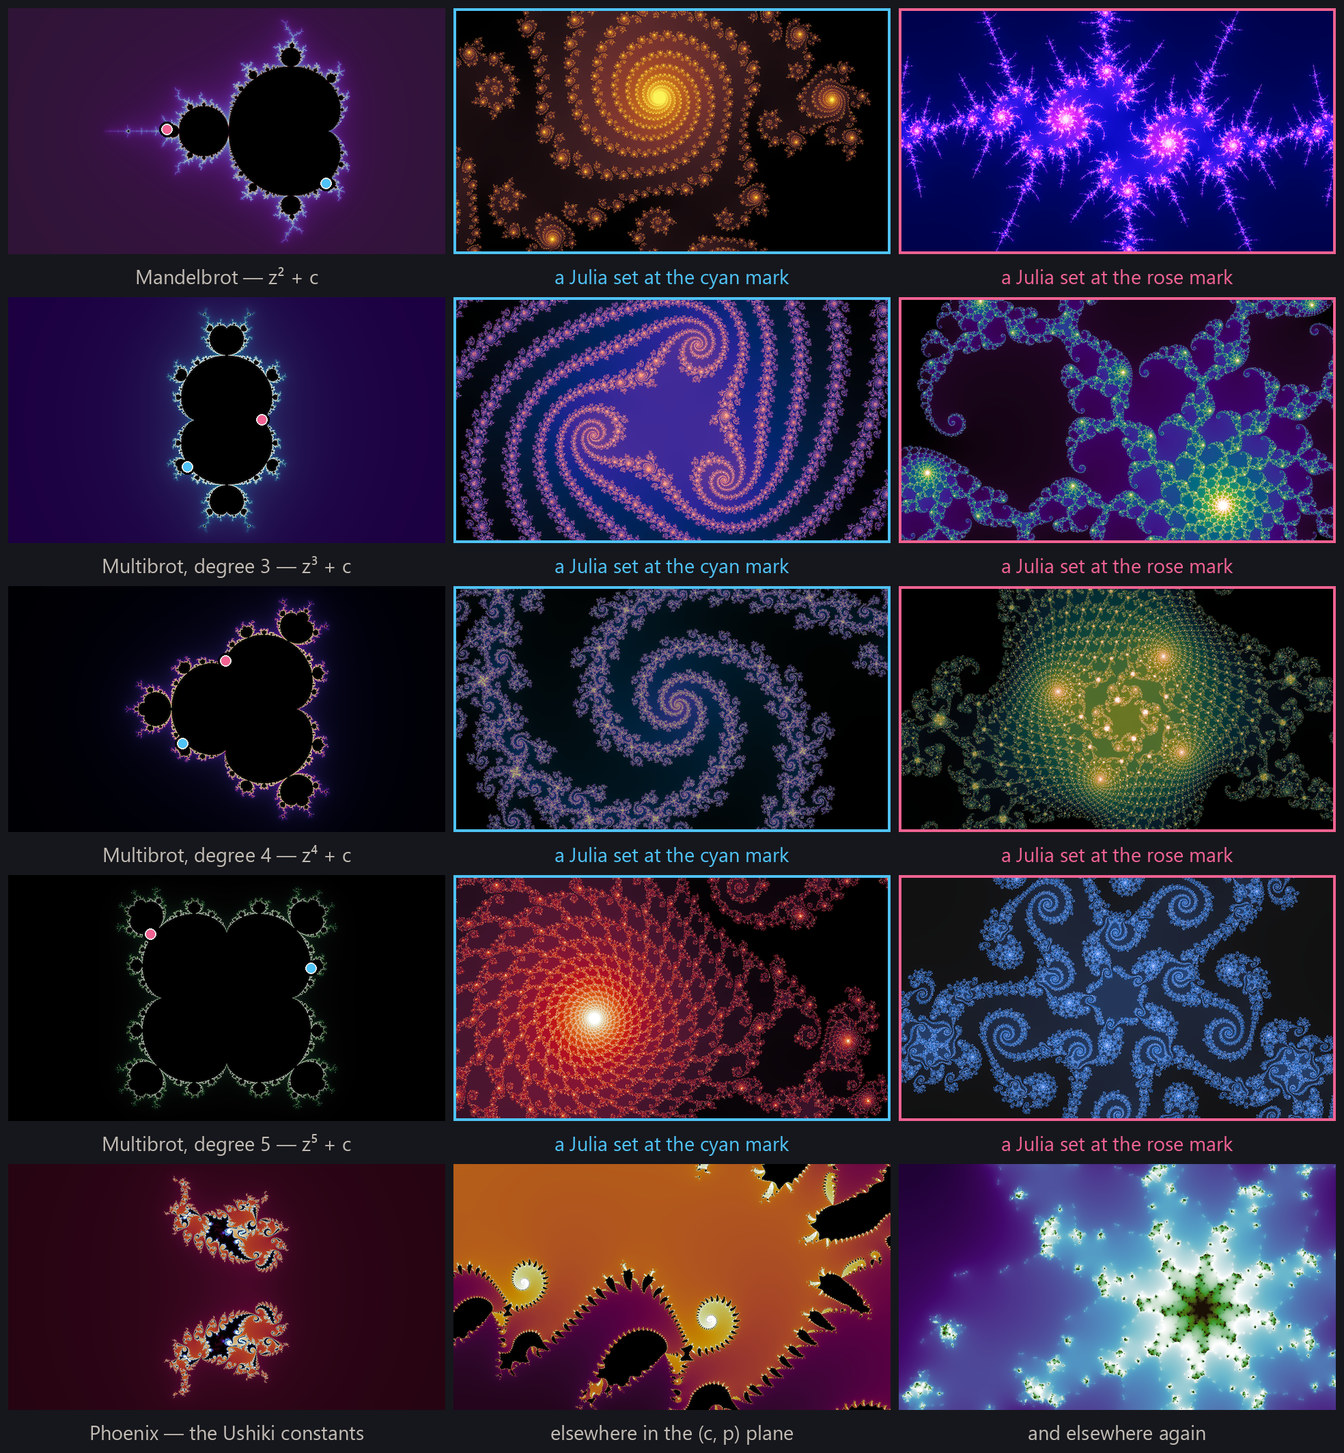
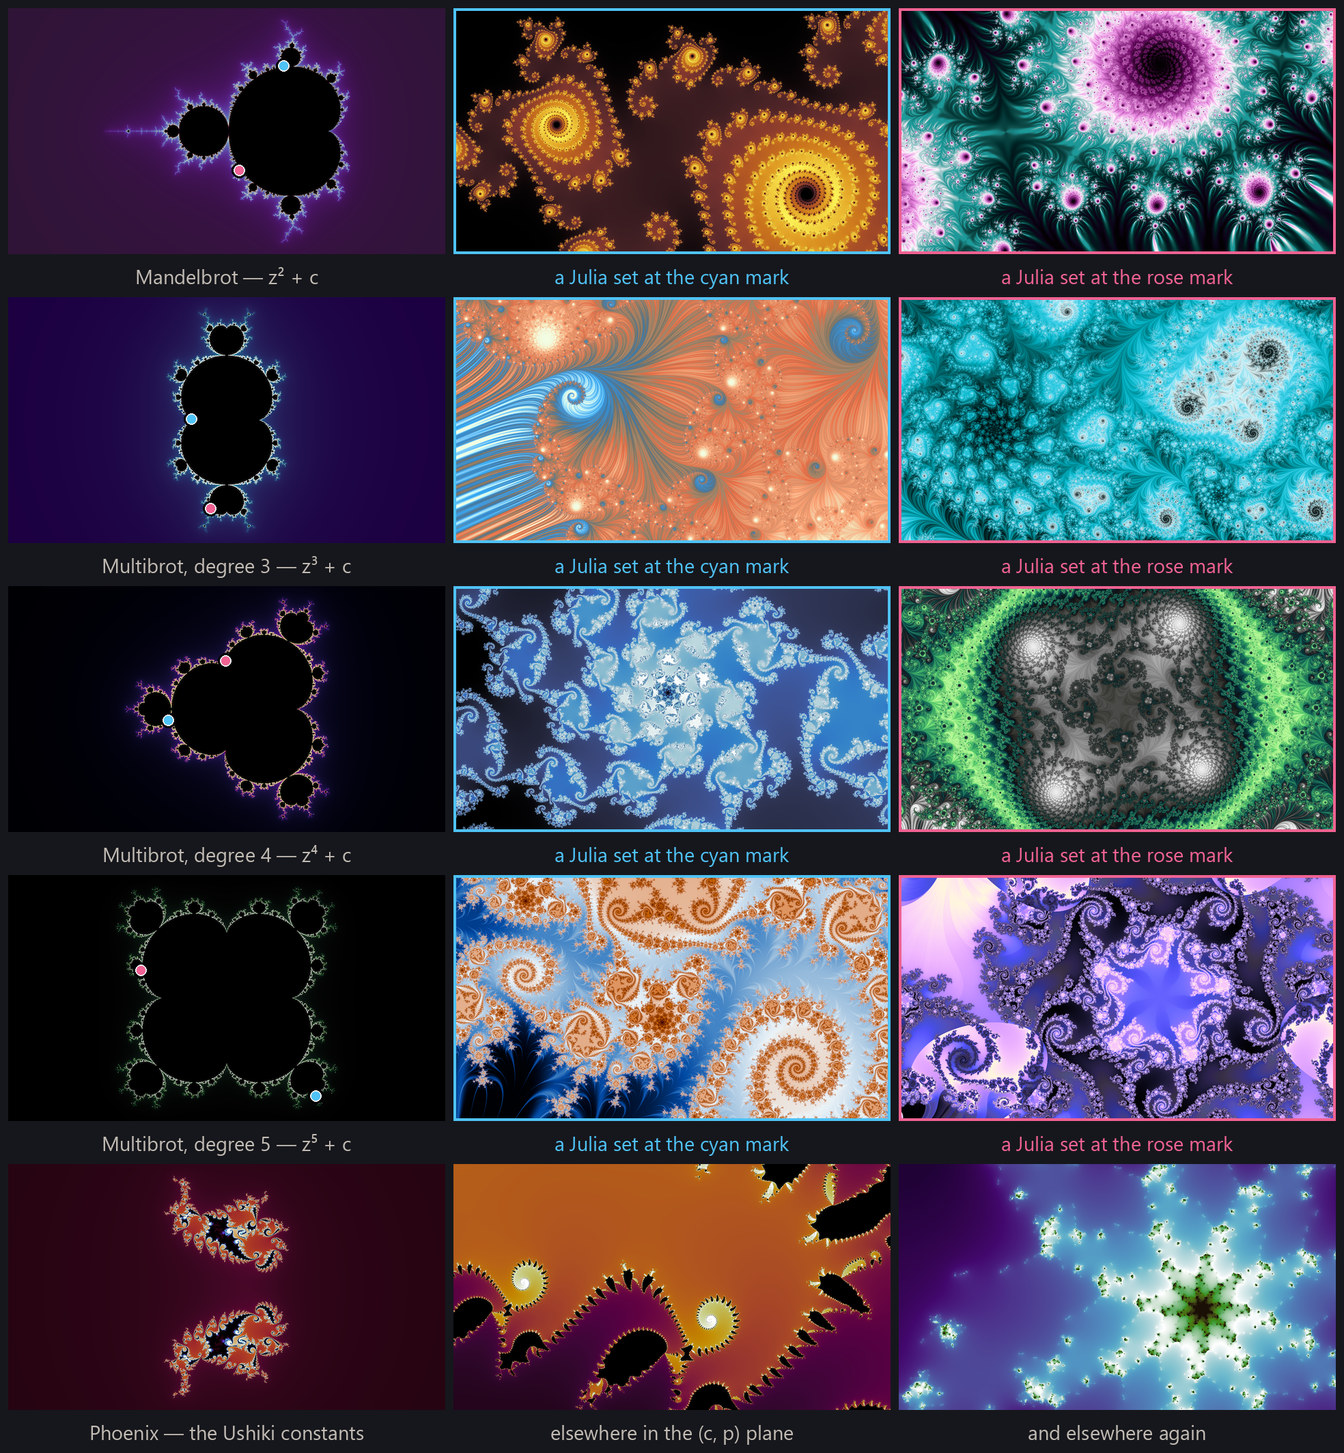
Rebuild three figures off Matt's pass, and fix one word
The pipeline figure runs top to bottom now — three stacked bands, each a
heading over its own row of pictures — and follows one location through all
three: found in neutral colours, colored four ways with the map the run kept
marked, then seated in a gallery. Its picks live on the registry row.

The four-point scale stops teaching that exceptional means spiral: rung 4 is a
rosette, a lace of ribbons and a field of beaded scrolls in three families, and
rung 1's third panel is now a location whose detail is finer than its pixels,
which is what junk-because-formless actually looks like.

Every family the project draws takes its eight Julia panels from gallery seats
rather than the label store, so a reader meets the work in its own colours; the
phoenix row is unchanged, having no plane to mark.

The hook's caption is placed verbatim, and render-field-anatomy's reuse_reason
comes out with the collision the pipeline re-pick dropped.

Claude-Session: https://claude.ai/code/session_01LVtW6yVuxZc7cAy18okcpG

diff --git a/article/overview.html b/article/overview.html
@@ -49,8 +49,8 @@
 <main>
   <section class="prose">
       <figure class="figure" data-figure="overview-gallery-hook">
-        <a class="figure-open" href="../explorer/index.html?v=2&amp;f=multibrot4&amp;x=0.3190049359670787&amp;y=0.7493803355819899&amp;w=0.00000030536169435018664&amp;p=pink&amp;mirror=1" title="open in fractal explorer" aria-label="open in fractal explorer"><img src="../assets/images/figures/overview-gallery-hook.jpg" width="1314" height="628" alt="Six finished wallpapers: three drawn in the smooth rendering along the top row, three in stranger rendering modes below."><span class="figure-open-mark" aria-hidden="true">↗</span></a>
-        <figcaption>Wallpapers found by this project's fractal search. Nothing about them is hand-made: the search finds a good location on its own, a rendering mode draws it, a palette colors it, and a trained judge decides it is worth keeping. The top row is the classic smooth rendering; the bottom row is three of the stranger modes.</figcaption>
+        <a class="figure-open" href="../explorer/index.html?v=2&amp;f=multibrot4&amp;x=0.3190049359670787&amp;y=0.7493803355819899&amp;w=0.00000030536169435018664&amp;p=pink&amp;mirror=1" title="open in fractal explorer" aria-label="open in fractal explorer"><img src="../assets/images/figures/overview-gallery-hook.jpg" width="1314" height="628" alt="Six finished wallpapers: three drawn in the smooth rendering along the top row, three in alternative rendering styles below."><span class="figure-open-mark" aria-hidden="true">↗</span></a>
+        <figcaption>Wallpapers found by this project's fractal search. The search finds a good location on its own, tries many different color palettes and ways to render it, and a trained judge decides it is worth keeping. The top row is the classic smooth rendering; the bottom row is three of the alternative rendering styles.</figcaption>
       </figure>
 
     <p>For many years my desktop background has cycled through a collection of
@@ -96,8 +96,8 @@
     Each question is one part of a <i>pipeline</i>, and each part feeds the next:</p>
 
       <figure class="figure" data-figure="overview-pipeline">
-        <a class="figure-open" href="../explorer/index.html?v=2&amp;f=multibrot4&amp;x=0.31215622070747834&amp;y=0.7310275499716895&amp;w=0.000009171415720687774&amp;p=dessert-union-25" title="open in fractal explorer" aria-label="open in fractal explorer"><img src="../assets/images/figures/overview-pipeline.jpg" width="1344" height="464" alt="The three parts of the pipeline side by side, each above the parts it is made of: a walk frame of one multibrot location, the same frame colored through a palette, and four candidate colorings of it with the kept one framed."><span class="figure-open-mark" aria-hidden="true">↗</span></a>
-        <figcaption>The pipeline end to end, on one location. A guided walk finds the frame and the location judge scores it; that same frame is then drawn many ways — a rendering mode and a palette to each attempt, with the tones balanced — and the render judge scores what comes back; and a gallery is chosen out of the pool those attempts fill. Every picture here is that same multibrot frame, and the framed panel is the coloring the run kept.</figcaption>
+        <a class="figure-open" href="../explorer/index.html?v=2&amp;f=multibrot4&amp;x=0.3407452442528424&amp;y=0.931615414985041&amp;w=0.00000006344276705989817&amp;p=twilight_shifted" title="open in fractal explorer" aria-label="open in fractal explorer"><img src="../assets/images/figures/overview-pipeline.jpg" width="1344" height="1017" alt="The three parts of the pipeline stacked down the page: three locations a walk found, drawn in neutral colors; one of them colored through four different palettes with the kept one marked; and three finished wallpapers of the gallery a solve chose."><span class="figure-open-mark" aria-hidden="true">↗</span></a>
+        <figcaption>The pipeline end to end. A guided walk finds locations worth drawing and the location judge scores them; one of those frames is then drawn many ways — a rendering mode and a palette to each attempt, with the tones balanced — and the render judge scores what comes back; and a gallery is chosen out of the pool those attempts fill. The first location of the top band is followed down the sheet: colored four ways in the middle band, where the marked panel is the coloring the run kept, and seated in the gallery at the foot.</figcaption>
       </figure>
 
     <p><a href="finding-good-locations.html">Finding good locations</a> — a guided walk

diff --git a/article/finding-good-locations.html b/article/finding-good-locations.html
@@ -80,7 +80,7 @@
     of the territory worth exploring. The six pictures below run from a frame that is mostly
     empty to one carrying detail at every scale. They are finished wallpapers rather than
     bare geometry, because that is how the question actually gets asked, and every one of
-    them was rated as good as this project's scale goes — which of them is too sparse, too
+    them was rated as good as this project's scale goes — which of them are too sparse, too
     busy, or just right is still largely personal preference.</p>
 
       <figure class="figure" data-figure="locations-style-spectrum">

diff --git a/builder/locations.py b/builder/locations.py
@@ -1125,15 +1125,30 @@ SPECTRUM_DENSITY = (0.032, 0.067, 0.087, 0.111, 0.152, 0.194)
 
 #: Three examples per rung of the four-point scale, all rated by hand, spread across
 #: families so no row reads as being about one fractal.
+#:
+#: Rung 1 runs empty, plain, formless — the three ways the rung's own wording says a
+#: frame is junk — and its third panel is a location whose detail is finer than the
+#: pixels it is drawn at, which reads as noise rather than as geometry. Rung 4 is held
+#: to being *geometrically* diverse as well: a rosette, a lace of ribbons and a field of
+#: beaded scrolls, in three different families, because three spirals side by side teach
+#: a reader that exceptional means spiral (Matt, 2026-09-02).
 RATED = {
-    1: (("minibrot_roster", 268), ("parameter_space_uniform", 132), ("guided_descent_rev4", 628)),
+    1: (
+        ("minibrot_roster", 268),
+        ("parameter_space_uniform", 132),
+        ("julia_parameter_ladder", 840),
+    ),
     2: (
         ("guided_descent_rev4_refiltered", 814),
         ("screened_queue_v2", 404),
         ("minibrot_roster", 451),
     ),
     3: (("screened_queue_v2", 917), ("twin_top_slices", 87), ("plane_deep_admissions", 21)),
-    4: (("correction_page", 39), ("plane_deep_admissions", 2), ("steady_state_ranked", 380)),
+    4: (
+        ("julia_multibrot45_score_band", 18),
+        ("twin_top_slices", 74),
+        ("phoenix_parameter_grid", 452),
+    ),
 }
 
 #: What each rung of the scale is for, in the labeler's own terms.
@@ -1308,11 +1323,10 @@ def _store_provenance(order: str, picks, rows, size, with_score: bool) -> list[s
         "so the geometry is what differs.",
     ]
     for (batch, line), row in zip(picks, rows, strict=True):
-        verdict = (
-            f"scored {row['score']} by {row['labeler']} on {row['recorded_at']}, "
-            if with_score
-            else ""
-        )
+        # Some batches of the store record no labeler at all, and "scored 4 by None" is
+        # a worse record than saying only what the row says.
+        by = f" by {row['labeler']}" if row.get("labeler") else ""
+        verdict = f"scored {row['score']}{by} on {row['recorded_at']}, " if with_score else ""
         lines.append(
             f"{batch}.jsonl line {line}: {_family_name(row['family'])}"
             + (
